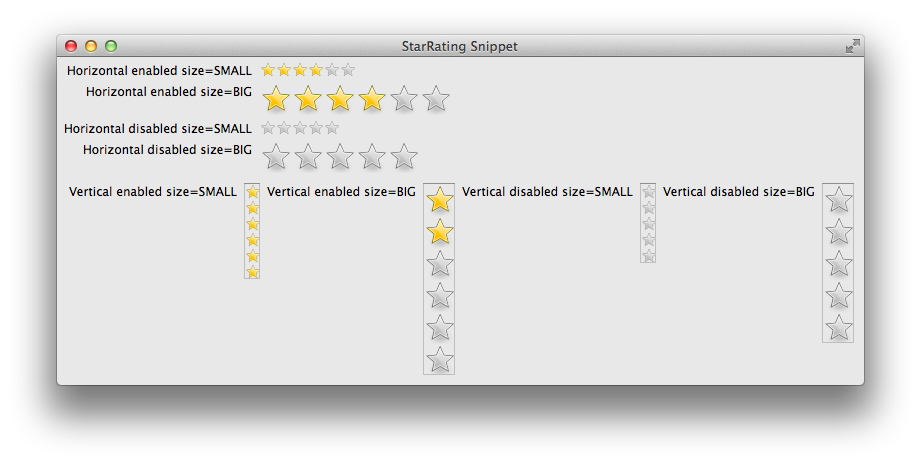
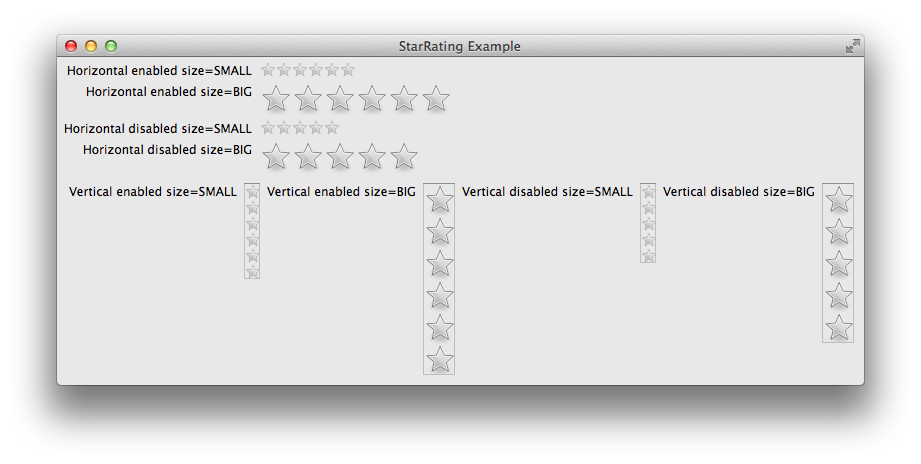
update the README.md

diff --git a/src/test/java/com/github/haixing_hu/gwt/starrating/StarRatingExample.java b/src/test/java/com/github/haixing_hu/gwt/starrating/StarRatingExample.java
@@ -35,7 +35,7 @@ public class StarRatingExample {
 	public static void main(final String[] args) {
 		final Display display = new Display();
 		final Shell shell = new Shell(display);
-		shell.setText("StarRating Snippet");
+		shell.setText("StarRating Example");
 
 		shell.setLayout(new GridLayout(2, false));
 

diff --git a/README.md b/README.md
@@ -1,4 +1,43 @@
-swt-widgets
-===========
+# swt-widgets
+
 
 Collect some useful SWT widgets for my applications.
+
+
+## StarRating
+
+This is a modification of the StarRating component of the [OPAL][opal] project. It implements a simple star rating toolbar that allows the user to rate anything. 
+
+### Screen Shot
+
+![Screen Shot of the StarRating Component](https://raw.githubusercontent.com/Haixing-Hu/swt-widgets/master/screenshots/StarRatingExample.png)
+
+### Usage
+
+In order to create a StarRating component, you must provide the parent component, the SWT styles, the size of the star (`StarRating.Size.SMALL` or `StarRating.Size.BIG`), and the maximum number of stars (i.e., the maximum rating level).
+
+	StarRating rating = new StarRating(shell, SWT.NONE, StarRating.Size.SMALL, 10);
+
+Or you can use the default maximum number of starts (which is 5):
+
+	StarRating rating = new StarRating(shell, SWT.NONE, StarRating.Size.BIG);
+
+Note that there is a difference between this implementation and the [OPAL][opal] implementaiton: when the user click a selected star, 
+
+- if the star has not been selected, the star and all stars below it will be selected;
+- if the star is the highest star that has been selected, the star will be unselect by the clicking; 
+- if the star is not the highest star that has been selected, the clicking will cause the star and all stars below it be selected and all stars above it be unselected. 
+
+In this way, we could easily unselect all stars. 
+		 
+### Example
+
+An example called `StarRatingExample.java` is located in the directory `src/test/java/com/github/haixing_hu/swt/starrating/` of the source repository.
+
+
+## References
+
+1. OPAL: [https://code.google.com/a/eclipselabs.org/p/opal/][opal]
+
+
+[opal]: https://code.google.com/a/eclipselabs.org/p/opal/
